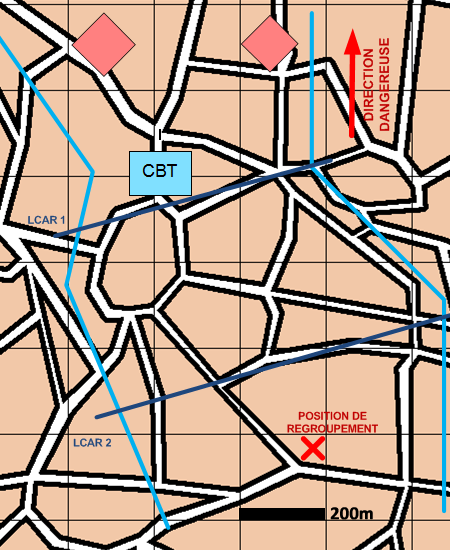
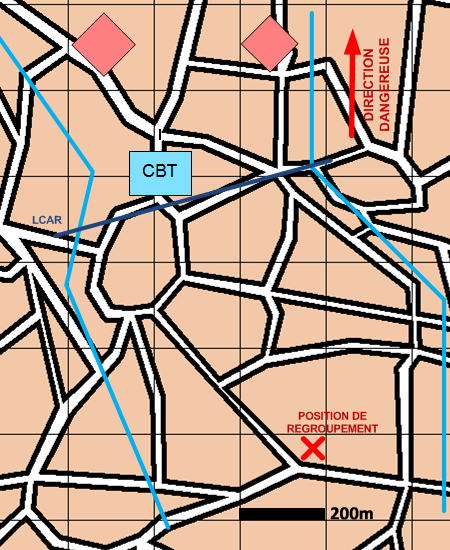
[Fiche Mission] Jira 9426 : Scipio 380680 -P12_359 MODELISATION - Mission automate RENS ROEM - BROUILLER
Génération des fiches missions

diff --git a/data/data/models/ada/physical/scipio/FichesMission/IA_Automate_Jalonner.html b/data/data/models/ada/physical/scipio/FichesMission/IA_Automate_Jalonner.html
@@ -39,7 +39,7 @@
 						<h2> Schéma de modélisation </h2>
 						<h3>Jalonner</h3><img src="./Images/IA_Automate_Jalonner/Mission.png" width="400" height="400"><br></td>
 					<td class="table" style="vertical-align: top;">
-						<h2>Paramètres obligatoires</h2><span class="param" style="font-weight: normal;">Fuseau</span><br><span style="font-weight: normal;" class="normal">Zone de responsabilité.</span><br><span class="param" style="font-weight: normal;">Direction Dangereuse</span><br><span style="font-weight: normal;" class="normal">Orientation privilégiée des capteurs.</span><br><span class="param" style="font-weight: normal;">Point de regroupement</span><br><span style="font-weight: normal;" class="normal">Point de regroupement à la fin de la mission</span><br></td>
+						<h2>Paramètres obligatoires</h2><span class="param" style="font-weight: normal;">Fuseau</span><br><span style="font-weight: normal;" class="normal">Zone de responsabilité.</span><br><span class="param" style="font-weight: normal;">Direction Dangereuse</span><br><span style="font-weight: normal;" class="normal">Orientation privilégiée des capteurs.</span><br><span class="param" style="font-weight: normal;">LCAR</span><br><span style="font-weight: normal;" class="normal">Ligne de mise en place du dispositif initial</span><br><span class="param" style="font-weight: normal;">Point de regroupement</span><br><span style="font-weight: normal;" class="normal">Point de regroupement à la fin de la mission</span><br></td>
 				</tr>
 				<tr>
 					<td class="table" style="vertical-align: top;">

diff --git a/data/data/models/ada/physical/scipio/FichesMission/RENS_Automate_ROEM_Brouiller.html b/data/data/models/ada/physical/scipio/FichesMission/RENS_Automate_ROEM_Brouiller.html
@@ -19,16 +19,16 @@
 			</effects>
 		</span><h2>Variantes et modalités d'exécution</h2><span class="normal" style="font-weight: bold;"><span class="space"></span></span><ol>
 			<li>
-				<step>Rejoindre la position d'installation</step>
+				<step>Rejoindre la zone de brouillage ;</step>
 			</li>
 			<li>
-				<step>La reconnaître, s'y déployer</step>
+				<step>La reconnaître, s'y déployer ;</step>
 			</li>
 			<li>
-				<step>Activer le brouillage (actif pendant le délai en paramètre)</step>
+				<step>Activer le brouillage ;</step>
 			</li>
 			<li>
-				<step>Désactiver le brouillage et rejoindre la position de regroupement)</step>
+				<step>Désactiver le brouillage et rejoindre la position de regroupement.</step>
 			</li>
 		</ol><br><table style="text-align: left; page-break-before:always" cellpadding="10" cellspacing="2">
 			<tbody>
